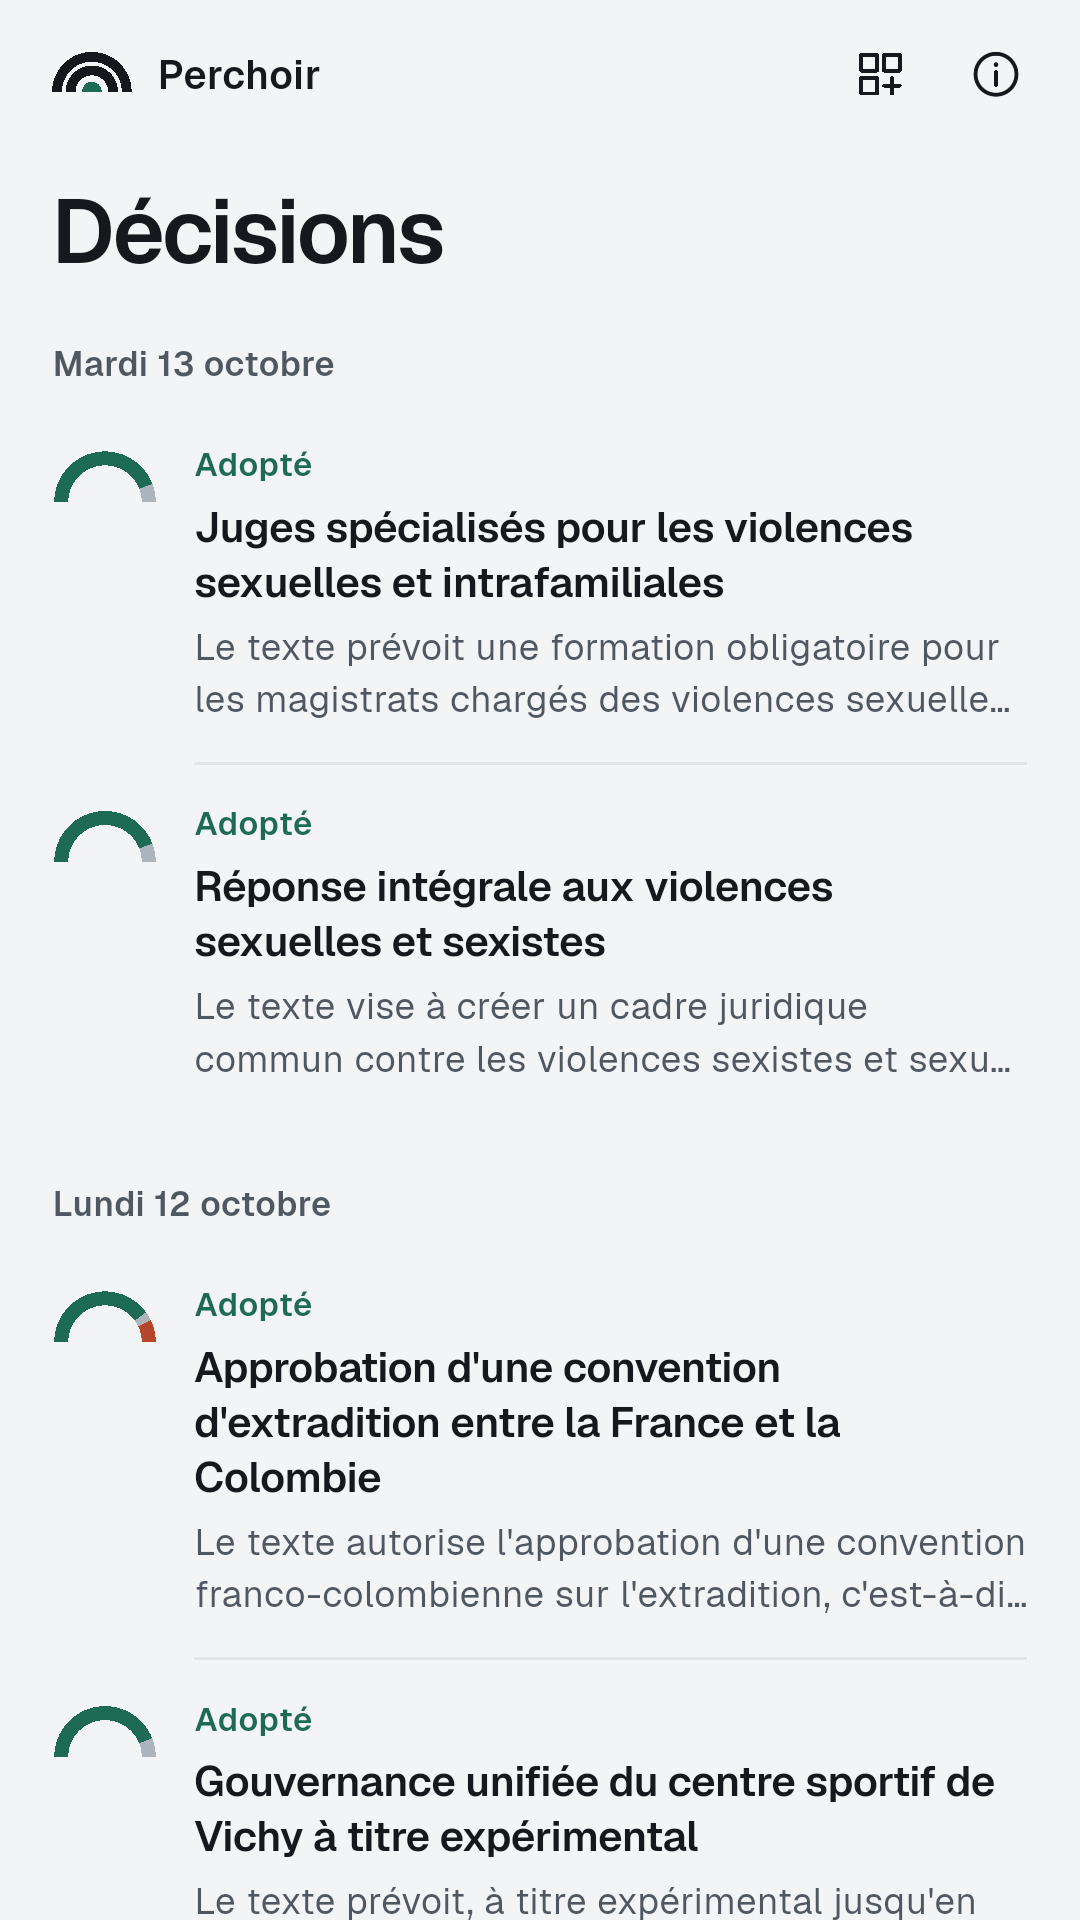
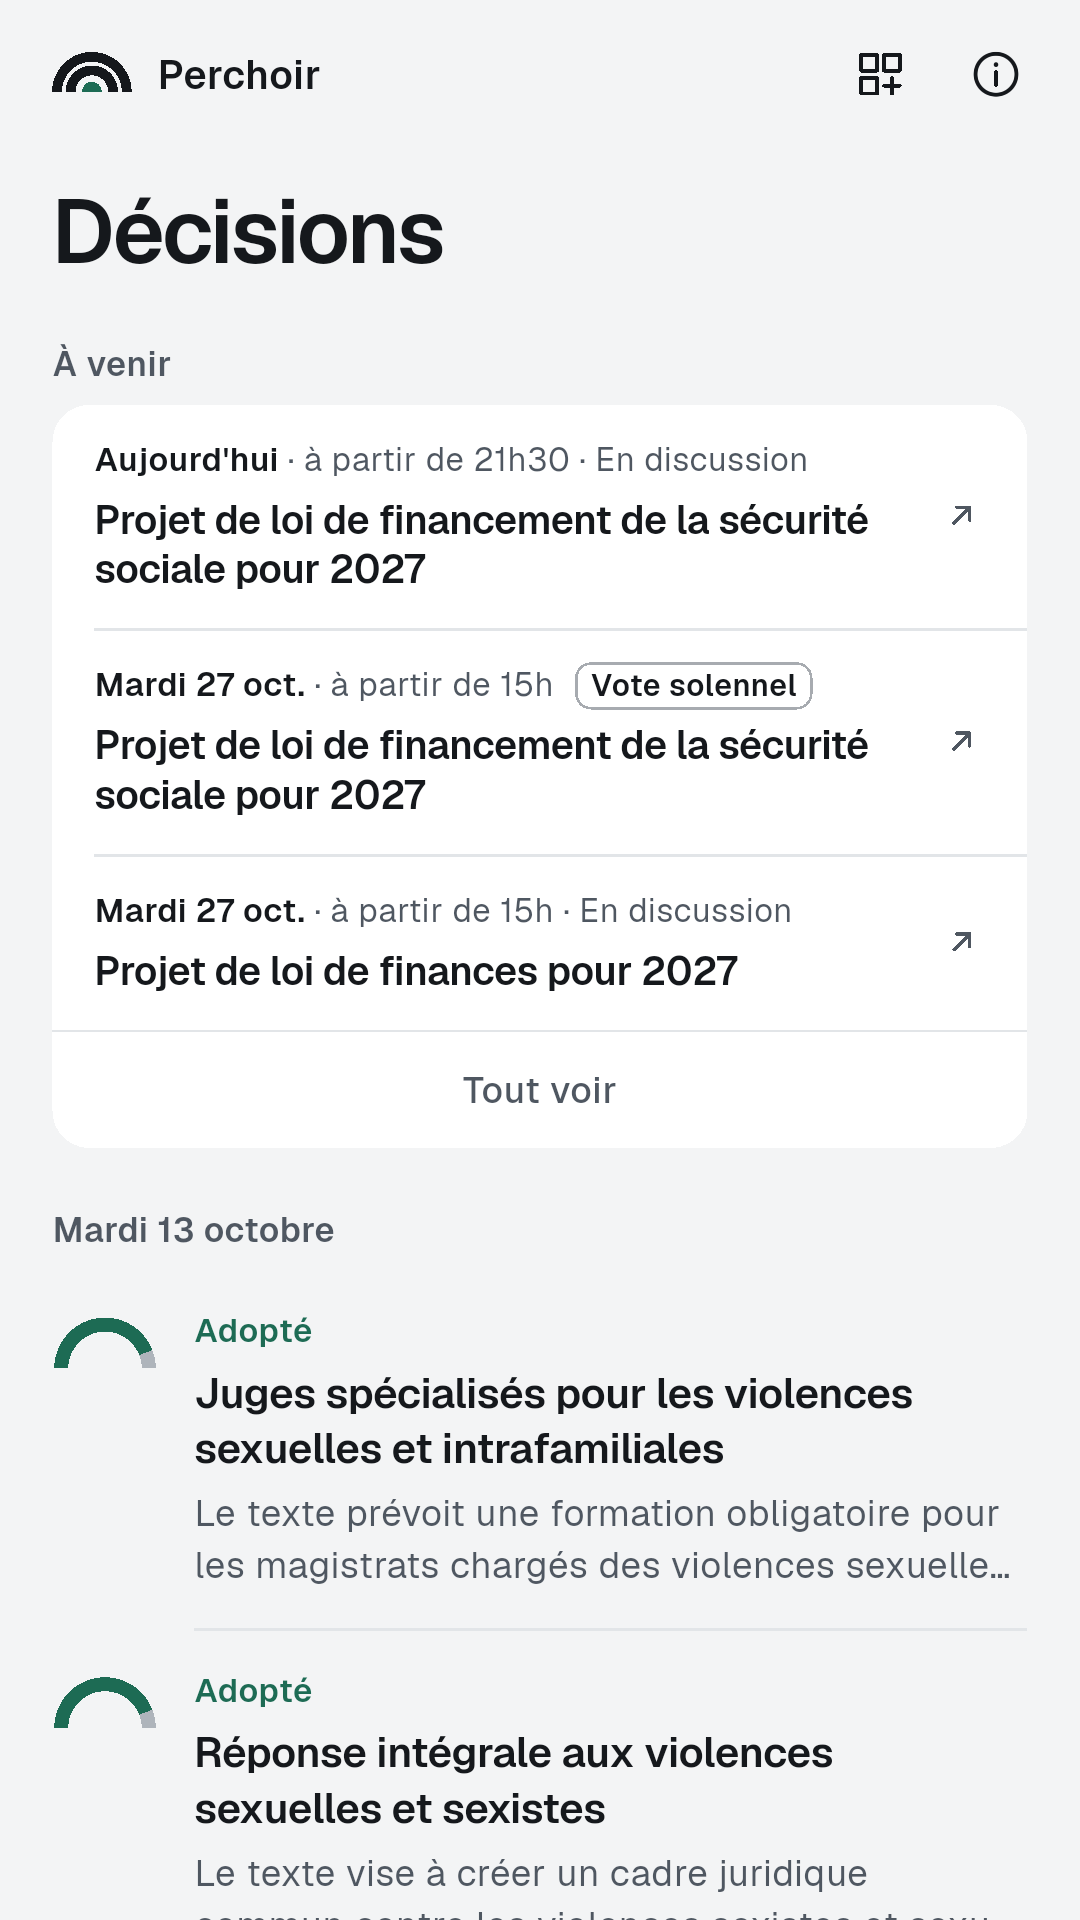
docs(store): section « À venir » et annonce de la veille dans les fiches et les captures

diff --git a/docs/confidentialite.html b/docs/confidentialite.html
@@ -41,7 +41,7 @@ footer{margin-top:40px;font-size:.875rem;color:var(--ink2)}
   <p>Aucune. L'application ne propose ni compte, ni inscription, ni formulaire. Elle n'envoie à l'éditeur ni nom, ni adresse e-mail, ni localisation, ni contacts, ni historique de lecture, ni identifiant publicitaire. Aucun outil d'analyse d'audience, de mesure de plantages ou de publicité n'est intégré.</p>
 
   <h2>Contenu affiché</h2>
-  <p>L'application télécharge des fichiers publics (les décisions de l'Assemblée nationale et leurs résumés), identiques pour tous les utilisateurs. Ces fichiers sont hébergés chez Cloudflare (service de stockage R2). Comme pour toute requête sur Internet, l'hébergeur reçoit techniquement l'adresse IP de l'appareil et peut en garder une trace dans ses journaux techniques, selon sa propre politique ; l'éditeur n'exploite pas ces journaux.</p>
+  <p>L'application télécharge des fichiers publics (les décisions de l'Assemblée nationale, son ordre du jour et les résumés), identiques pour tous les utilisateurs. Ces fichiers sont hébergés chez Cloudflare (service de stockage R2). Comme pour toute requête sur Internet, l'hébergeur reçoit techniquement l'adresse IP de l'appareil et peut en garder une trace dans ses journaux techniques, selon sa propre politique ; l'éditeur n'exploite pas ces journaux.</p>
   <p>Les résumés sont rédigés en amont, sur un serveur, par une IA (Claude, d'Anthropic) à partir des textes publics de l'Assemblée. Aucune donnée vous concernant n'est envoyée à Anthropic.</p>
 
   <h2>Notifications</h2>

diff --git a/docs/support.html b/docs/support.html
@@ -57,7 +57,7 @@ footer{margin-top:40px;font-size:.875rem;color:var(--ink2)}
 
   <details>
     <summary>Comment activer ou couper les notifications ?</summary>
-    <p>Perchoir vous prévient seulement des votes importants : votes solennels, motions de censure, textes de compromis et lectures définitives, soit une à trois notifications par semaine environ. Pour les couper ou les réactiver : page À propos de l'application, interrupteur « Votes importants ». Vous pouvez aussi les gérer dans les réglages de notifications du téléphone. Si vous aviez refusé l'autorisation, il faut la rétablir dans les réglages du téléphone.</p>
+    <p>Perchoir vous prévient seulement des votes importants : votes solennels, motions de censure, textes de compromis et lectures définitives, et, la veille au soir, l'annonce d'un vote solennel prévu le lendemain, soit une à trois notifications par semaine environ. Pour les couper ou les réactiver : page À propos de l'application, interrupteur « Votes importants ». Vous pouvez aussi les gérer dans les réglages de notifications du téléphone. Si vous aviez refusé l'autorisation, il faut la rétablir dans les réglages du téléphone.</p>
   </details>
 
   <details>

diff --git a/docs/index.html b/docs/index.html
@@ -43,6 +43,7 @@ footer{margin-top:40px;font-size:.875rem;color:var(--ink2)}
   <ul>
     <li>La liste des décisions de l'Assemblée nationale : un titre, une ligne d'explication, adopté ou rejeté.</li>
     <li>Pour chaque décision, qui a voté quoi, groupe par groupe, et les principaux arguments pour et contre.</li>
+    <li>Les prochains points de l'ordre du jour, dont les votes solennels annoncés.</li>
     <li>Un widget pour l'écran d'accueil (iPhone et Android).</li>
     <li>Une notification, si vous le souhaitez, pour les votes importants.</li>
   </ul>

diff --git a/docs/store/app-store.md b/docs/store/app-store.md
@@ -38,7 +38,7 @@ Modifiable sans nouvelle version.
 Chaque décision de l'Assemblée nationale en bref : le résultat, qui a voté quoi et les arguments pour et contre. Sans compte, sans publicité.
 ```
 
-## Description (1962) [4000]
+## Description (2131) [4000]
 
 ```text
 Perchoir résume les décisions de l'Assemblée nationale : chaque vote sur l'ensemble d'un texte, chaque motion de censure, chaque résolution, en quelques mots.
@@ -51,11 +51,14 @@ POUR CHAQUE DÉCISION
 • Les principaux arguments pour et contre, tirés des débats
 • Les liens vers le scrutin et le dossier législatif officiels
 
+À VENIR
+En tête de liste, les prochains points de l'ordre du jour de l'Assemblée, dont les votes solennels annoncés.
+
 WIDGET
 Les dernières décisions sur l'écran d'accueil, en trois tailles : la dernière décision, la dernière décision expliquée, ou les trois dernières.
 
 NOTIFICATIONS, SI VOUS LE SOUHAITEZ
-Une notification pour les votes importants seulement : votes solennels, motions de censure, textes de compromis et lectures définitives. Une à trois par semaine environ, désactivables à tout moment.
+Une notification pour les votes importants seulement : votes solennels, motions de censure, textes de compromis et lectures définitives, et la veille au soir l'annonce d'un vote solennel. Une à trois par semaine environ, désactivables à tout moment.
 
 DÉLAI
 Une décision apparaît 10 à 30 minutes après le vote, marquée « provisoire », puis est confirmée le lendemain avec le décompte complet et le vote de chaque groupe. Les votes sur les amendements et les articles ne sont pas affichés.
@@ -95,11 +98,8 @@ demande au moins une capture « iPhone with Dynamic Island (medium display) »
 (6,3"), tandis que le tableau ne rend obligatoire que le 6,9" (ou à défaut le
 6,5"). Les deux jeux sont fournis : déposer le 6,9" et le 6,3".
 
-**iPad** : le projet Xcode déclare `TARGETED_DEVICE_FAMILY = "1,2"` (iPhone et
-iPad). Tant que c'est le cas, App Store Connect exige aussi des captures iPad
-13 pouces (2064 × 2752). Pour une V1 iPhone seulement, passer
-`TARGETED_DEVICE_FAMILY` à `1` dans `app/ios/Runner.xcodeproj` (cibles Runner
-et DecisionWidget) avant la première archive.
+Pas de captures iPad : l'app est déclarée iPhone seulement
+(`TARGETED_DEVICE_FAMILY = 1`, #50).
 
 ## Classification par âge
 
@@ -177,11 +177,11 @@ Data: public open data published by the Assemblée nationale (data.assemblee-nat
 
 AI-generated content: titles, one-line explanations, key points and arguments for/against are generated server-side, ahead of time, by Claude (Anthropic) from the official texts and debate transcripts, with a neutrality instruction. Users cannot prompt the AI. This is disclosed in the About screen and the store description; every decision links to the official vote and legislative file.
 
-Notifications (optional): after the user opens a decision for the first time, the app asks for notification permission. If granted, the device subscribes to a single Firebase Cloud Messaging topic ("votes-importants": solemn votes, motions of censure, final readings), about 1 to 3 per week. They can be turned off in About > "Votes importants". No push token is sent to our server.
+Notifications (optional): after the user opens a decision for the first time, the app asks for notification permission. If granted, the device subscribes to a single Firebase Cloud Messaging topic ("votes-importants": solemn votes, motions of censure, final readings, and the evening before a scheduled solemn vote), about 1 to 3 per week. They can be turned off in About > "Votes importants". No push token is sent to our server.
 
 Home screen widget: long-press the Home Screen > Edit > Add Widget > "Perchoir" (small, medium and large sizes).
 
-Content: votes take place only when the Assembly sits; outside session weeks the list shows the latest decisions with their dates.
+Content: the list starts with "À venir" (upcoming items of the official agenda, also from Assemblée nationale open data), then past decisions. Votes take place only when the Assembly sits; outside session weeks the list shows the latest decisions with their dates.
 
 Contact: Lucas Angoston, lucasangostonpro@gmail.com
 ```

diff --git a/docs/store/google-play.md b/docs/store/google-play.md
@@ -25,7 +25,7 @@ Les longueurs entre parenthèses sont comptées en caractères Unicode par
 - **Règles de confidentialité** :
   https://lucasangoston.github.io/vote-du-jour/confidentialite.html
 
-## Description complète (1962) [4000]
+## Description complète (2131) [4000]
 
 Même texte que l'App Store.
 
@@ -40,11 +40,14 @@ POUR CHAQUE DÉCISION
 • Les principaux arguments pour et contre, tirés des débats
 • Les liens vers le scrutin et le dossier législatif officiels
 
+À VENIR
+En tête de liste, les prochains points de l'ordre du jour de l'Assemblée, dont les votes solennels annoncés.
+
 WIDGET
 Les dernières décisions sur l'écran d'accueil, en trois tailles : la dernière décision, la dernière décision expliquée, ou les trois dernières.
 
 NOTIFICATIONS, SI VOUS LE SOUHAITEZ
-Une notification pour les votes importants seulement : votes solennels, motions de censure, textes de compromis et lectures définitives. Une à trois par semaine environ, désactivables à tout moment.
+Une notification pour les votes importants seulement : votes solennels, motions de censure, textes de compromis et lectures définitives, et la veille au soir l'annonce d'un vote solennel. Une à trois par semaine environ, désactivables à tout moment.
 
 DÉLAI
 Une décision apparaît 10 à 30 minutes après le vote, marquée « provisoire », puis est confirmée le lendemain avec le décompte complet et le vote de chaque groupe. Les votes sur les amendements et les articles ne sont pas affichés.
